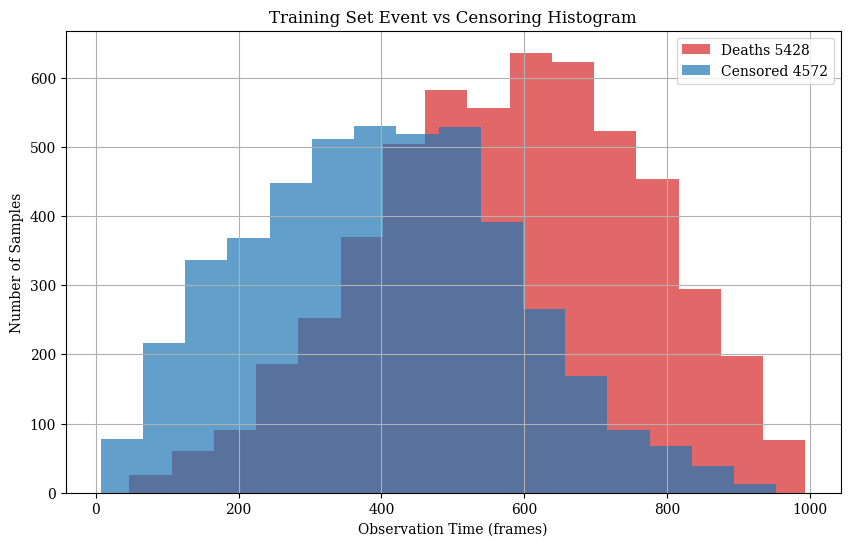
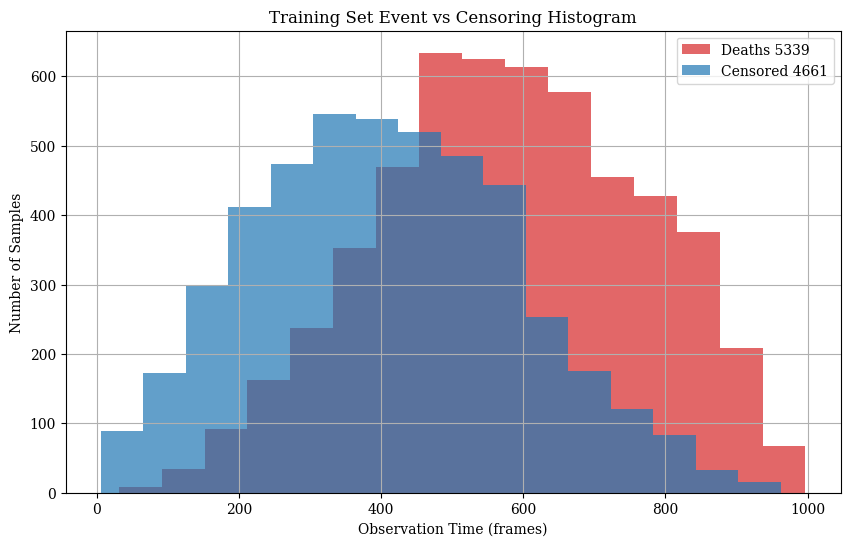
synthetic data with sf instead pmf

diff --git a/PhagoPred/survival_analysis/data/synthetic_data.py b/PhagoPred/survival_analysis/data/synthetic_data.py
@@ -12,7 +12,8 @@ class Cell:
         self.features = self._generate_base_features()
     
     def _generate_base_pmf(self):
-        pmf = np.ones(self.T) / self.T
+        # pmf = np.ones(self.T) / self.T
+        pmf = np.zeros(self.T)
         # end_peak = np.exp(-0.5 * ((np.arange(self.T) - (self.T-1)) / 50)**2)
         # pmf += end_peak
         return pmf
@@ -53,16 +54,17 @@ class Rule:
     
 class VariationRule(Rule):
     """Increase hazard {delay} frames after an increase in std of {feature}."""
-    def __init__(self, feature: str = '0', probability: float = 1.0, delay: int = 200, sigma: float = 10.0):
+    def __init__(self, feature: str = '0', probability: float = 1.0, delay: int = 200, sigma: float = 10.0, max_strength=1.0):
         self.feature = feature
         self.probability = probability
         self.delay = delay
         self.sigma = sigma
+        self.max_strength = max_strength
         
     def apply(self, cell: Cell) -> None:
         if np.random.rand() < self.probability:
             
-            strength = np.abs(np.random.rand())
+            strength = np.random.rand()*self.max_strength
             
             frame = np.random.randint(cell.T)
             start_idx = frame - self.delay
@@ -73,40 +75,50 @@ class VariationRule(Rule):
             cell[self.feature][start_idx:] = slice_
             
             t = np.arange(cell.T)
-            gaussian = np.exp(-0.5 * ((t - frame) / self.sigma)**2)*strength
-            
-            cell.pmf += gaussian
+            gaussian = np.exp(-0.5 * ((t - frame) / self.sigma)**2)
+            gaussian = gaussian / np.sum(gaussian)
+            cell.pmf += gaussian * strength
+            assert np.sum(cell.pmf) <= 1.0, f"PMF exceeds 1.0, {self.max_strength}, {strength}, {np.sum(cell.pmf)}"
 
 
 class GradualRampRule(Rule):
-    def __init__(self, feature='1', probability=1.0, ramp_length=30, ramp_height=10.0, delay=100, sigma=10.0):
+    def __init__(self, feature='1', probability=1.0, ramp_length=30, ramp_height=10.0, delay=100, sigma=10.0, max_strength: float=1.0):
         self.feature = feature
         self.probability = probability
         self.ramp_length = ramp_length
         self.ramp_height = ramp_height
         self.delay = delay
         self.sigma = sigma
+        self.max_strength = max_strength
 
-        
+    
     def apply(self, cell: Cell):
         if np.random.rand() < self.probability:
-            strength = np.abs(np.random.randn())
+            strength = np.random.rand()*self.max_strength
             start = np.random.randint(cell.T - self.ramp_length)
             ramp = np.linspace(0, self.ramp_height*strength, self.ramp_length)
             cell[self.feature][start:start+self.ramp_length] += ramp
             t = np.arange(cell.T)
             hazard_frame = start + self.ramp_length + self.delay
-            cell.pmf += np.exp(-0.5*((t - hazard_frame)/self.sigma)**2) * strength
+            gaussian = np.exp(-0.5 * ((t - hazard_frame) / self.sigma)**2)
+            gaussian = gaussian / np.sum(gaussian)
+            cell.pmf += gaussian * strength
+            assert np.sum(cell.pmf) <= 1.0, f"PMF exceeds 1.0, {self.max_strength}, {strength}, {np.sum(cell.pmf)}"
 
 
             
 def create_synthetic_dataset(filename: Path, num_cells: int = 1000, num_frames: int = 1000):
     """Create synthetic dataset with given number of cells and frames."""
     
+    
     rules = [
-        # VariationRule(),
+        VariationRule(),
         GradualRampRule(),
     ]
+    num_rules = len(rules)
+    for rule in rules:
+        rule.max_strength = 1 / num_rules
+        print(rule.max_strength)
     
     start_frames = np.random.randint(0, num_frames//2, size=num_cells)
     end_frames = np.random.randint(num_frames//2, num_frames, size=num_cells)
@@ -115,7 +127,7 @@ def create_synthetic_dataset(filename: Path, num_cells: int = 1000, num_frames: 
     
     all_features = {name: np.empty((num_frames, num_cells), dtype=np.float32) for name in features}
     all_deaths = np.empty(num_cells, dtype=np.float32)
-    pmfs = np.empty((num_frames, num_cells), dtype=np.float32)
+    sfs = np.empty((num_frames, num_cells), dtype=np.float32)
     
     for c in tqdm(range(num_cells), desc='Generating cells'):
         cell = Cell(num_frames)
@@ -125,10 +137,25 @@ def create_synthetic_dataset(filename: Path, num_cells: int = 1000, num_frames: 
         # Apply rules
         for rule in rules:
             rule.apply(cell)
-        cell.normalise_pmf()
-        pmfs[:, c] = cell.pmf
-    
-        death_frame = np.random.choice(np.arange(num_frames), p=cell.pmf)
+        # cell.normalise_pmf()
+
+        cum_event_prob = np.cumsum(cell.pmf)
+        # if np.max(cum_event_prob):
+        #     raise ValueError(f"prob > 1 {cum_event_prob}")
+        sf = 1 - cum_event_prob
+        sfs[:, c] = sf
+        
+        # Sample death time
+        u = np.random.rand()
+        if u > np.max(cum_event_prob):
+            death_frame = np.nan
+        else:
+            death_frame = np.argmax(cum_event_prob >= u)
+            if death_frame < start or death_frame > end:
+                death_frame = np.nan
+        
+        
+        # death_frame = np.random.choice(np.arange(num_frames), p=cell.pmf)
         if death_frame < start or death_frame > end:
             death_frame = np.nan
         
@@ -150,7 +177,7 @@ def create_synthetic_dataset(filename: Path, num_cells: int = 1000, num_frames: 
         for name in features:
             grp.create_dataset(name, data=all_features[name], dtype=np.float32)
         grp.create_dataset('CellDeath', data=all_deaths[np.newaxis, :], dtype=np.float32)
-        grp.create_dataset('PMFs', data=pmfs, dtype=np.float32)
+        grp.create_dataset('SFs', data=sfs, dtype=np.float32)
             
 if __name__ == '__main__':
     create_synthetic_dataset(
@@ -160,6 +187,6 @@ if __name__ == '__main__':
     )
     create_synthetic_dataset(
         filename = Path('PhagoPred') / 'Datasets' / 'synthetic.h5',
-        num_cells=10000,
+        num_cells=1000,
         num_frames=1000,
     )

diff --git a/PhagoPred/survival_analysis/models/decision_tree/train.py b/PhagoPred/survival_analysis/models/decision_tree/train.py
@@ -196,49 +196,57 @@ def plot_all_km_curves_single_plot(node_info, save_dir: Path):
     plt.savefig(save_dir / 'all_km_curves.png', dpi=300)
     
 def main():
+        # features = [
+        #     'Area',
+        #     # 'X',
+        #     # 'Y',
+        #     'Circularity',
+        #     'Perimeter',
+        #     'Displacement',
+        #     'Speed',
+        #     'Skeleton Length', 
+        #     'Skeleton Branch Points', 
+        #     'Skeleton End Points', 
+        #     'Skeleton Branch Length Mean', 
+        #     'Skeleton Branch Length Std',
+        #     'Skeleton Branch Length Max',
+        #     # 'UMAP 1',
+        #     # 'UMAP 2',
+        #     # 'Mode 0',
+        #     # 'Mode 1',
+        #     # 'Mode 2',
+        #     # 'Mode 3',
+        #     # 'Mode 4',
+        #     # 'Speed',
+        #     'Phagocytes within 100 pixels',
+        #     'Phagocytes within 250 pixels',
+        #     'Phagocytes within 500 pixels',
+        #     # 'Total Fluorescence', 
+        #     # 'Fluorescence Distance Mean', 
+        #     # 'Fluorescence Distance Variance',
+        #     ] 
         features = [
-            'Area',
-            # 'X',
-            # 'Y',
-            'Circularity',
-            'Perimeter',
-            'Displacement',
-            'Speed',
-            'Skeleton Length', 
-            'Skeleton Branch Points', 
-            'Skeleton End Points', 
-            'Skeleton Branch Length Mean', 
-            'Skeleton Branch Length Std',
-            'Skeleton Branch Length Max',
-            # 'UMAP 1',
-            # 'UMAP 2',
-            # 'Mode 0',
-            # 'Mode 1',
-            # 'Mode 2',
-            # 'Mode 3',
-            # 'Mode 4',
-            # 'Speed',
-            'Phagocytes within 100 pixels',
-            'Phagocytes within 250 pixels',
-            'Phagocytes within 500 pixels',
-            # 'Total Fluorescence', 
-            # 'Fluorescence Distance Mean', 
-            # 'Fluorescence Distance Variance',
-            ] 
+        '0',
+        '1',
+        '2',
+        '3',
+        ] 
+    
         
-        train_hdf5_paths=[
-            Path('PhagoPred') / 'Datasets' / 'ExposureTest' / '07_10_0.h5',
-            Path('PhagoPred') / 'Datasets' / 'ExposureTest' / '28_10_2500.h5',
-            Path('PhagoPred') / 'Datasets' / 'ExposureTest' / '10_10_5000.h5',
+        # train_hdf5_paths=[
+        #     Path('PhagoPred') / 'Datasets' / 'ExposureTest' / '07_10_0.h5',
+        #     Path('PhagoPred') / 'Datasets' / 'ExposureTest' / '28_10_2500.h5',
+        #     Path('PhagoPred') / 'Datasets' / 'ExposureTest' / '10_10_5000.h5',
             
-        ]
-        val_hdf5_paths=[
-            Path('PhagoPred') / 'Datasets' / 'ExposureTest' / '07_10_0.h5',
-            Path('PhagoPred') / 'Datasets' / 'ExposureTest' / '28_10_2500.h5',
-            Path('PhagoPred') / 'Datasets' / 'ExposureTest' / '10_10_5000.h5',
-        ]
-        
-        train(train_hdf5_paths, val_hdf5_paths, features, fixed_len=100, save_as=Path('PhagoPred') / 'survival_analysis' / 'models' / 'decision_tree' / 'test', max_time_to_death=100)
+        # ]
+        # val_hdf5_paths=[
+        #     Path('PhagoPred') / 'Datasets' / 'ExposureTest' / '07_10_0.h5',
+        #     Path('PhagoPred') / 'Datasets' / 'ExposureTest' / '28_10_2500.h5',
+        #     Path('PhagoPred') / 'Datasets' / 'ExposureTest' / '10_10_5000.h5',
+        # ]
+        train_datasets = [Path('PhagoPred')/'Datasets'/'synthetic.h5']
+        val_datasets = [Path('PhagoPred')/'Datasets'/'val_synthetic.h5']
+        train(train_datasets, val_datasets, features, fixed_len=100, save_as=Path('PhagoPred') / 'survival_analysis' / 'models' / 'decision_tree' / 'test', max_time_to_death=100)
         
 if __name__ == '__main__':
     main()

diff --git a/PhagoPred/survival_analysis/data/dataset.py b/PhagoPred/survival_analysis/data/dataset.py
@@ -20,7 +20,7 @@ class CellDataset(torch.utils.data.Dataset):
                  stds: np.ndarray=None,
                  specified_cell_idxs: list[int]=None,
                  event_time_bins = None,
-                 num_bins: int = 16,
+                 num_bins: int = None,
                  preload_data: bool = True,
                  uncensored_only: bool = False,
                  summary_stats: bool = False,
@@ -80,7 +80,7 @@ class CellDataset(torch.utils.data.Dataset):
         if preload_data:
             self._preload_all_data()
 
-        if self.event_time_bins is None:
+        if self.event_time_bins is None and self.num_bins is not None:
             self._compute_bins()
 
         if summary_stats:
@@ -511,14 +511,17 @@ def dataset_to_xy(ds, n_slices=5):
     X, events, times = [], [], []
     for i in tqdm(range(len(ds)), desc=f'Processing dataset {ds}'):
         for _ in range(n_slices):
-            features, _, event, time = ds[i]
-            if features is not None:
+            item = ds[i]
+            if item is not None:
+                features = item['features']
+                e = item['event_indicator']
+                time = item['time_to_event']
                 if not np.any(np.isnan(features)):
                     X.append(features.flatten())
-                    events.append(event)
+                    events.append(e)
                     times.append(time)
 
-                    assert ~np.any(np.isnan(X)), (features.flatten(), features.flatten().shape, event, time)
+                    assert ~np.any(np.isnan(X)), (features.flatten(), features.flatten().shape, e, time)
     X = np.vstack(X)
     y = np.array(list(zip(events, times)), dtype=[('event', '?'), ('time', '<f8')])
     return X, y

diff --git a/PhagoPred/survival_analysis/models/temp_cnn/validate.py b/PhagoPred/survival_analysis/models/temp_cnn/validate.py
@@ -110,7 +110,18 @@ def visualize_validation_predictions(
     pbar.close()
         # output, attn = model(batch['features'], batch['length'], return_attention=True)
         
+def eval_model(model_, dataloader, save_dir: Path, device: torch.Device) -> None:
+    for batch in dataloader:
+        outputs = model(batch['features'], batch['length'])
+        
+        true_bins = batch['time_to_event_bin']
+        
+        plot_cm(outputs, true_bins, save_dir / 'cm.png')
+        
 
+def plot_cm(outputs, true_bins, save_as) -> None:
+    pass
+        
         
        
 def average_feature_importance(model, dataloader, device, features, save_as: Path):
